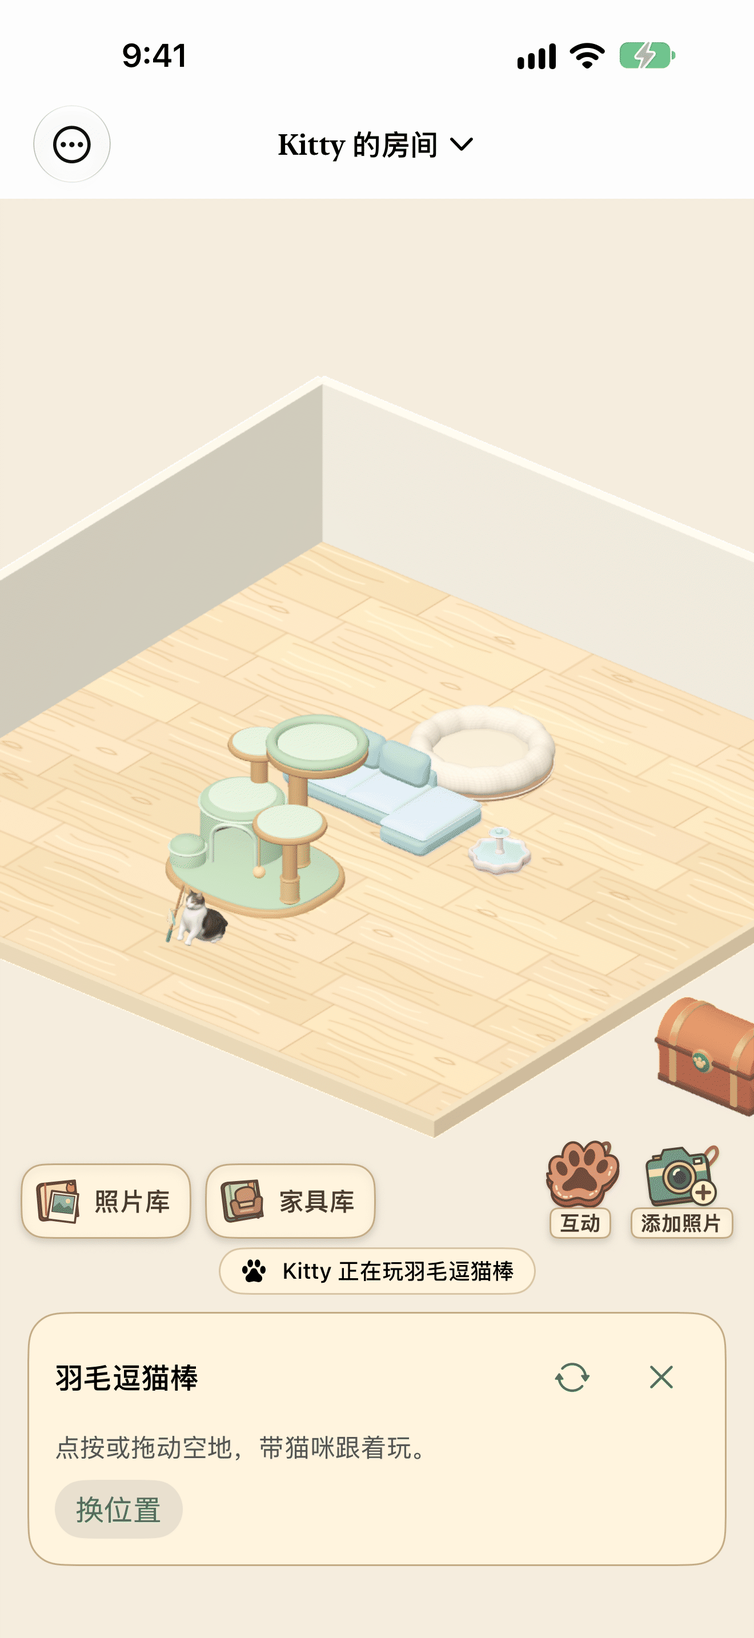
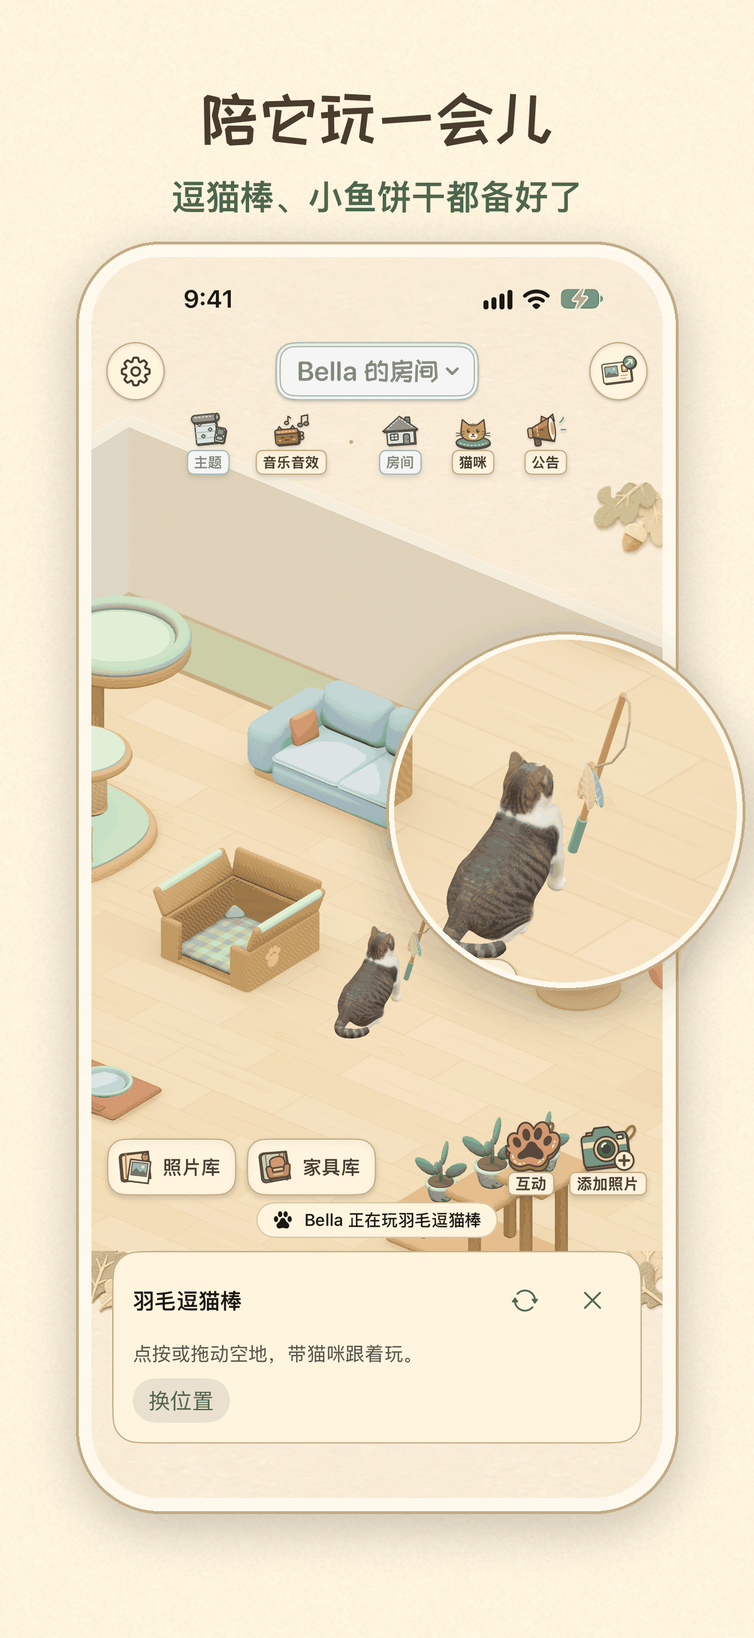
docs: README for 1.0 in review, nine cats, sponsors and studio
The badge and status line say 1.0 (14) is in App Store review. Nine
built-in cats; the sponsors by their own nicknames and the studio
credit, as in the app. The preview images are three of the 1.0 App
Store screenshots, the ones with no photos in them.

diff --git a/docs/media/ATTRIBUTION.md b/docs/media/ATTRIBUTION.md
@@ -2,54 +2,51 @@
 
 简体中文 | [English](#english)
 
-这里的中英两组、共六张图是完整 Meowverse 原生 iOS App 的开发版截图，供展示项目用途。这些图不作为源码候选包的运行截图；源码公开范围与正式 App 的素材范围分别说明。
+这里的中英两组、共六张图是喵空间 1.0 的 App Store 截图，供展示项目用途。它们展示的是带正式美术的成品 App，不是只靠本仓库的源码就能得到的画面。
 
-## 拍摄时间与版本
+## 拍摄与处理
 
-本组中文、英文商店底稿由项目的 `StoreScreenshotsUITests` 和 `ios/store-shots.sh` 在 iPhone 18 Pro Max 模拟器（iOS 27.2）中生成，两种语言共用同一拍摄流程，取自 2026-11-15 的开发主线。对应结果包记录的时间是 **2026-11-15 21:55–22:04 UTC（美国东部时间当天下午）**。
+截图由项目的商店截图流程在 iPhone 模拟器（iOS 27.2）上拍摄，界面是 1.0 的真实界面，英文截图是真实的英文界面。之后加上了标题、副标题和设备外框，与 App Store 上的截图相同（2026-11-24）。
 
-这些图晚于 **0.1.0 (3)** 的 2026-11-14 归档，图中部分界面可能还没有进入 TestFlight，不标为任何已上传构建的截图。PNG 本身不提供可独立验证的 App 构建号。
-
-六张文件尺寸均为 **1320 × 2868**，与模拟器截图相同。为减小仓库体积，原始 PNG 经 256 色调色板量化（Floyd–Steinberg 抖动）后重新保存，没有裁切、缩放、重绘界面或拼接额外功能。英文截图是真实的英文 UI，不是把中文截图的文字覆盖为英文。
+六张文件尺寸均为 **1320 × 2868**。为减小仓库体积，PNG 经 256 色调色板量化（Floyd–Steinberg 抖动）后重新保存，没有裁切、缩放或重绘界面。
 
 ## 照片与隐私
 
-- `ios-room.png`、`ios-play.png` 及其 `-en.png` 对应图只展示 App 渲染的虚拟场景、猫咪和道具。
-- `ios-memories.png`、`ios-memories-en.png` 内的来源图片是程序画出的猫咪与沙发示意图，来自 App 的合成测试导入流程。图上的拍摄日期和导入时间属于该合成测试图片，不代表任何真实猫咪照片的日期。
-- 图中猫咪的名字是 App 的默认名 Kitty。这些图没有包含私人原照片、真实相册内容、个人姓名或设备标识。
+这六张图只有 App 渲染的虚拟房间、猫咪、家具和道具，**不含任何照片**。商店截图里另有几张展示照片整理的图，用了真实的猫咪照片，没有放进本仓库。图中的猫是内置的 Bella，没有个人姓名或设备标识。
 
 ## 权利范围与第三方署名
 
-这六份 PNG 产品预览图作为展示材料保留权利，不随程序代码许可授予美术复用权。截图的公开展示不表示正式模型、贴图、动画或设计源文件一并开源。此说明不改变适用代码许可证授予的权利；第三方内容已有的许可和权利不受此声明影响。
+这六份 PNG 作为展示材料保留权利，不随程序代码许可授予美术复用权；公开展示不表示正式模型、贴图、动画或设计源文件一并开源。第三方内容已有的许可和权利不受此声明影响。
 
-- 图中的猫是 App 内置的猫咪，网格与毛色由 Meowverse 制作，骨架、蒙皮权重和动作片段来自 Meowverse 的猫咪骨架流程。App 的署名文件仍保留早期模板的来源署名，这里照录：**“3d modelling my cat: Fripouille” — guillaume bolis（2020）**，原作品适用 [CC BY 4.0](https://creativecommons.org/licenses/by/4.0/)。[原作页面](https://sketchfab.com/3d-models/3d-modelling-my-cat-fripouille-0ab14bf98e754f8d90fe1bf1c84ca66c) · [作者](https://sketchfab.com/guillaume.bolis)。
-- 图中可见的家具（层层猫爬架、云朵贵妃沙发、莲花饮水器、甜甜圈猫窝）是 Meowverse 的原创程序模型；收纳箱、羽毛逗猫棒、地板与墙面，以及合成来源图片，由 Meowverse 的程序在本机生成或绘制。这组截图中没有出现 App 目录里来自 Kenney 或 3D Assets 的 CC0 家具。
-
-本目录只包含展示用截图，没有包含上述正式几何体、纹理或动画源文件。
+- **猫。** 内置猫 Bella 由腾讯混元 3D（Tencent Hunyuan3D）从参考图生成，再由 Meowverse 修整，骨架、蒙皮权重和动作片段来自 Meowverse 的猫咪骨架流程。Tencent Hunyuan 3D 2.0 is licensed under the Tencent Hunyuan 3D 2.0 Community License Agreement, Copyright © 2025 Tencent. All Rights Reserved. The trademark rights of “Tencent Hunyuan” are owned by Tencent or its affiliate. App 的署名文件仍保留早期模板的来源署名，这里照录：**“3d modelling my cat: Fripouille” — guillaume bolis（2020）**，原作品适用 [CC BY 4.0](https://creativecommons.org/licenses/by/4.0/)。[原作页面](https://sketchfab.com/3d-models/3d-modelling-my-cat-fripouille-0ab14bf98e754f8d90fe1bf1c84ca66c) · [作者](https://sketchfab.com/guillaume.bolis)。
+- **家具、房间主题和道具。** 来自 App 的家具目录：Meowverse 的原创程序模型、owner 提供并用 Meowverse 家具工具建的模型，以及 Kenney 和 3D Assets 的 CC0 模型（CC0 不要求署名，完整清单见 App 内「关于与隐私」）。墙纸、地板、角饰和玩具道具由 Meowverse 制作。
 
 ## 文件校验
 
-来源路径均为原开发项目内的相对路径，用于说明拍摄出处。下表是本目录中压缩后文件的 SHA-256。
+下表是本目录中文件的 SHA-256。
 
-| 文件 | 来源 | SHA-256 |
+| 文件 | 商店截图 | SHA-256 |
 | --- | --- | --- |
[12 lines of base64/hex data omitted]
 
 <a name="english"></a>
 
 ## English
 
-These six images, one Chinese and one English set, are screenshots of a development build of the full native Meowverse iOS app, shown to present the project. They are not screens produced by running the source package.
+These six images, one Chinese and one English set, are the App Store screenshots of Meowverse 1.0, shown to present the project. They show the finished app with its production art, not what the source in this repository produces on its own.
 
-**When and how.** Both languages were captured by the project's `StoreScreenshotsUITests` and `ios/store-shots.sh` on an iPhone 18 Pro Max simulator (iOS 27.2) from the development main line of November 15, 2026. The result bundle records **21:55–22:04 UTC on 2026-11-15**. They are newer than the 0.1.0 (3) archive of November 14, 2026, so some of what they show may not be in TestFlight yet; they are not labelled as screenshots of any uploaded build.
+**How.** The project's store screenshot pipeline captured them in an iPhone simulator (iOS 27.2) from the real 1.0 interface; the English images show the real English interface. A title, a subtitle and a device frame were then added, as on the App Store (November 24, 2026). All six are **1320 × 2868**. To keep the repository small, the PNGs were quantised to a 256-colour palette with Floyd–Steinberg dithering and saved again, without cropping, scaling or redrawing the interface.
 
-**Processing.** All six files keep the simulator size of **1320 × 2868**. To keep the repository small, the original PNGs were quantised to a 256-colour palette with Floyd–Steinberg dithering and saved again. Nothing was cropped, scaled, redrawn or composited. The English screenshots show the real English UI, not Chinese screenshots with replaced text.
+**Photos and privacy.** These six images show only the app's rendered virtual room, cat, furniture and props, and **no photos at all**. The other store screenshots, which show photo organizing with real cat photos, are not in this repository. The cat is the built-in Bella; there are no personal names or device identifiers.
 
-**Photos and privacy.** The room and play images show only the app's rendered scene, cat and props. The source picture in the memories images is a programmatically drawn cat-and-sofa sample from the app's synthetic test import; its capture date and import time belong to that sample. The cat's name is the app default, Kitty. The images contain no private photos, real photo-library content, personal names or device identifiers.
+**Rights and attribution.** The screenshots are presentation material; their rights are reserved and are not granted under the code license, and showing them does not open-source the production models, textures, animations or design files. Existing licenses and rights of third-party content are unaffected.
 
-**Rights and attribution.** The screenshots are presentation material; their rights are reserved and are not granted under the code license, and showing them does not open-source the production models, textures, animations or design files. The cat is the app's built-in cat, with mesh and coat made by Meowverse and the skeleton, skin weights and clips from Meowverse's cat rig. The app's attribution file still keeps the credit for the earlier template, reproduced here: **“3d modelling my cat: Fripouille” by guillaume bolis (2020)**, licensed under [CC BY 4.0](https://creativecommons.org/licenses/by/4.0/) ([model](https://sketchfab.com/3d-models/3d-modelling-my-cat-fripouille-0ab14bf98e754f8d90fe1bf1c84ca66c) · [author](https://sketchfab.com/guillaume.bolis)). The visible furniture (Tiered cat tower, Cloud chaise sofa, Lotus fountain and Donut bed) is original procedural work by Meowverse; the storage chest, feather wand, floor, walls and the synthetic source picture are generated or drawn locally by Meowverse code. No Kenney or 3D Assets CC0 furniture from the app catalog appears in these screenshots. The SHA-256 of each file is in the table above.
+- **The cat.** The built-in cat Bella was generated with Tencent Hunyuan3D from reference images and reworked by Meowverse; the skeleton, skin weights and clips come from Meowverse's cat rig. Tencent Hunyuan 3D 2.0 is licensed under the Tencent Hunyuan 3D 2.0 Community License Agreement, Copyright © 2025 Tencent. All Rights Reserved. The trademark rights of “Tencent Hunyuan” are owned by Tencent or its affiliate. The app's attribution file still keeps the credit for the earlier template, reproduced here: **“3d modelling my cat: Fripouille” by guillaume bolis (2020)**, licensed under [CC BY 4.0](https://creativecommons.org/licenses/by/4.0/) ([model](https://sketchfab.com/3d-models/3d-modelling-my-cat-fripouille-0ab14bf98e754f8d90fe1bf1c84ca66c) · [author](https://sketchfab.com/guillaume.bolis)).
+- **Furniture, room themes and props.** From the app's furniture catalog: original procedural models by Meowverse, models provided by the owner and built with the Meowverse furniture toolkit, and CC0 models from Kenney and 3D Assets (CC0 requires no attribution; the full list is under About & Privacy in the app). Wallpapers, floors, corner ornaments and toys are made by Meowverse.
+
+The SHA-256 of each file is in the table above.

diff --git a/README.md b/README.md
@@ -11,7 +11,7 @@
 <p>
   <img src="https://img.shields.io/badge/Swift-6-F05138?logo=swift&amp;logoColor=white" alt="Swift 6">
   <img src="https://img.shields.io/badge/iOS%20%2F%20iPadOS-26%2B-1C1C1E?logo=apple&amp;logoColor=white" alt="iOS 和 iPadOS 26 或更新版本">
-  <img src="https://img.shields.io/badge/1.0-%E5%8D%B3%E5%B0%86%E4%B8%8A%E6%9E%B6%20App%20Store-0A84FF" alt="1.0 即将上架 App Store">
+  <img src="https://img.shields.io/badge/1.0-App%20Store%20%E5%AE%A1%E6%A0%B8%E4%B8%AD-0A84FF" alt="1.0 App Store 审核中">
   <a href="https://github.com/Fengyee/meowverse-core"><img src="https://img.shields.io/badge/Source-available-586A54" alt="Source-available 源码可见"></a>
   <a href="https://github.com/Fengyee/meowverse-core/blob/main/LICENSE"><img src="https://img.shields.io/badge/License-PolyForm%20NC%201.0.0-697A89" alt="PolyForm Noncommercial License 1.0.0"></a>
 </p>
@@ -26,7 +26,7 @@
 
 </div>
 
-2026-11-24：喵空间 **1.0（9）** 即将上架 App Store。上架前可以通过 TestFlight 试用，能否加入以 TestFlight 页面显示为准。网页版保留为功能演示，开发主线是原生 iOS App。
+2026-11-24：喵空间 **1.0（14）** 已提交 App Store 审核，审核通过后上架。上架前可以通过 TestFlight 试用，能否加入以 TestFlight 页面显示为准。网页版保留为功能演示，开发主线是原生 iOS App。
 
 <a name="try"></a>
 
@@ -38,7 +38,7 @@
 
 从一张你有权使用的猫咪照片开始，检查家具建议，选好款式和位置；以后点家具，就能打开与它关联的照片。识别在本机运行，从预设家具里提出建议，最终由你确认；不提供照片的 3D 重建。
 
-> **源码范围是喵空间 1.0 的全部代码，美术不公开。** 本仓库提供准备上架 App Store 的 1.0 的 App、小组件与实时活动、核心库 `MeowverseCore`、测试和 Xcode 工程，可以在没有美术的情况下编译和测试。猫咪、家具、图标等正式美术不随源码提供。源码采用非商业用途的 **source-available** 许可，具体范围见 [源码与许可](#source)。
+> **源码范围是喵空间 1.0 的全部代码，美术不公开。** 本仓库提供提交 App Store 审核的 1.0（14）的 App、小组件与实时活动、核心库 `MeowverseCore`、测试和 Xcode 工程，可以在没有美术的情况下编译和测试。猫咪、家具、图标等正式美术不随源码提供。源码采用非商业用途的 **source-available** 许可，具体范围见 [源码与许可](#source)。
 
 <a name="your-cat"></a>
 
@@ -63,18 +63,18 @@
 
 <table>
   <tr>
-    <th align="center">把日常摆进房间</th>
-    <th align="center">点家具，回到照片</th>
-    <th align="center">陪猫玩一会儿</th>
+    <th align="center">给猫的照片，安一个家</th>
+    <th align="center">陪它玩一会儿</th>
+    <th align="center">给小屋换个样子</th>
   </tr>
   <tr>
-    <td align="center"><img src="docs/media/ios-room.png" width="250" alt="Meowverse 开发版房间界面：猫咪窝在沙发上，旁边有猫爬架、猫窝和饮水器"></td>
-    <td align="center"><img src="docs/media/ios-memories.png" width="250" alt="Meowverse 开发版家具回忆界面：沙发里的一张程序绘制示意照片和拍摄日期"></td>
-    <td align="center"><img src="docs/media/ios-play.png" width="250" alt="Meowverse 开发版陪猫玩界面：猫咪追着羽毛逗猫棒"></td>
+    <td align="center"><img src="docs/media/ios-room.png" width="250" alt="喵空间 1.0 房间：Bella 睡在云朵贵妃沙发上，旁边有猫爬架和纸箱"></td>
+    <td align="center"><img src="docs/media/ios-play.png" width="250" alt="喵空间 1.0 陪猫玩：Bella 追着羽毛逗猫棒"></td>
+    <td align="center"><img src="docs/media/ios-themes.png" width="250" alt="喵空间 1.0 换了房间主题的小屋：Bella 坐在猫爬架顶上，旁边有壁炉"></td>
   </tr>
 </table>
 
-*开发版真实界面（模拟器）；照片为程序绘制示意。截图采自 2026-11-15 的开发版，早于 1.0，部分画面和正式版不同。[图片来源与署名](docs/media/ATTRIBUTION.md)。*
+*1.0 的 App Store 截图（模拟器拍摄，加了标题和设备框）。这三张只有 App 里的虚拟房间，不含照片。[图片来源与署名](docs/media/ATTRIBUTION.md)。*
 
 <details>
 <summary>1.0 里有什么</summary>
@@ -85,7 +85,7 @@
 - **陪猫互动。** 邀请猫咪到家具上，选玩具或喂零食；支持实时活动的设备可从“互动”启动锁屏像素猫，支持灵动岛的 iPhone 还能在灵动岛查看。
 - **在别处看到它。** 主屏和锁屏小组件、控制中心控件；支持的设备上可以用 AR 把房间放在真实的桌面上。
 - **留住和同步。** 导出 ZIP 备份，或打开 iCloud 云盘备份和 iCloud 同步，在自己的设备之间同步房间和照片。
-- **按自己的习惯使用。** 八只内置猫咪任选；画质分档；iPad 支持横竖屏；界面跟随系统使用简体中文或英文；本地提醒由你选择开启。
+- **按自己的习惯使用。** 九只内置猫咪任选；画质分档；iPad 支持横竖屏；界面跟随系统使用简体中文或英文；本地提醒由你选择开启。
 
 多个房间、多只猫和语音控制还没做完，1.0 先不开放；已有存档里的第二个房间或第二只猫照常显示。
 
@@ -111,7 +111,7 @@
 
 **美术不公开**：猫咪与家具的模型、贴图、房间主题、插画、App 图标、音效、字体和设计源文件都不在本仓库。它们是项目与合作者的作品，部分按第三方许可使用，不随代码授权。宣传截图展示的是成品 App，不是只靠本仓库能得到的画面。
 
-关于页和猫咪卡片中的赞助人名字目前是占位写法，等真实信息确认后再更新，不是正式的鸣谢名单。
+关于页、公告和猫咪卡片里鸣谢的赞助人，用的是他们自己给的昵称：Omucat、阳子、锤宝、Xin、科内利乌斯；其余几只猫写作「〈猫名〉的铲屎官」。
 
 源码与列明的必要程序数据采用 **[PolyForm Noncommercial License 1.0.0](LICENSE)**：可以在许可证定义的许可用途内使用、修改和再分发；商业用途需要另行取得授权。再分发时须按原文保留许可条款和必要声明。
 
@@ -177,9 +177,13 @@ support/                        群二维码
 
 ## Contributors · 协作致谢
 
+出品：**枫雪工作室**。
+
 项目维护：[**Fengyee**](https://github.com/Fengyee)。
 
 创意：**Omucat**。
+
+赞助人：**Omucat**、**阳子**、**锤宝**、**Xin**、**科内利乌斯**。
 
 测试鸣谢：名单整理中。感谢每一位参与 TestFlight 测试和反馈的朋友。
 

diff --git a/README.en.md b/README.en.md
@@ -11,7 +11,7 @@ Build your cat a home, and turn the sofa it naps on or the sunny windowsill into
 <p>
   <img src="https://img.shields.io/badge/Swift-6-F05138?logo=swift&amp;logoColor=white" alt="Swift 6">
   <img src="https://img.shields.io/badge/iOS%20%2F%20iPadOS-26%2B-1C1C1E?logo=apple&amp;logoColor=white" alt="iOS and iPadOS 26 or later">
-  <img src="https://img.shields.io/badge/1.0-Coming%20to%20the%20App%20Store-0A84FF" alt="1.0 coming to the App Store">
+  <img src="https://img.shields.io/badge/1.0-In%20App%20Store%20review-0A84FF" alt="1.0 in App Store review">
   <a href="https://github.com/Fengyee/meowverse-core"><img src="https://img.shields.io/badge/Source-available-586A54" alt="Source-available code"></a>
   <a href="https://github.com/Fengyee/meowverse-core/blob/main/LICENSE"><img src="https://img.shields.io/badge/License-PolyForm%20NC%201.0.0-697A89" alt="PolyForm Noncommercial License 1.0.0"></a>
 </p>
@@ -26,7 +26,7 @@ Build your cat a home, and turn the sofa it naps on or the sunny windowsill into
 
 </div>
 
-As of November 24, 2026, Meowverse **1.0 (9)** is on its way to the App Store. Until then you can try it through TestFlight; check the TestFlight page for availability. The web version remains a frozen feature demo, while development focuses on the native iOS app.
+On November 24, 2026, Meowverse **1.0 (14)** was submitted for App Store review; it comes to the App Store once approved. Until then you can try it through TestFlight; check the TestFlight page for availability. The web version remains a frozen feature demo, while development focuses on the native iOS app.
 
 <a name="try"></a>
 
@@ -67,18 +67,18 @@ Participation is optional. Preparation is manual, with no guaranteed acceptance,
 
 <table>
   <tr>
-    <th align="center">Arrange everyday memories</th>
-    <th align="center">Tap furniture to revisit a photo</th>
-    <th align="center">Spend a moment with your cat</th>
+    <th align="center">A little home for your cat photos</th>
+    <th align="center">Stay and play a while</th>
+    <th align="center">Give the room a new look</th>
   </tr>
   <tr>
-    <td align="center"><img src="docs/media/ios-room-en.png" width="250" alt="Meowverse development build, room screen: the cat loafing on a sofa beside a cat tower, a bed and a fountain"></td>
-    <td align="center"><img src="docs/media/ios-memories-en.png" width="250" alt="Meowverse development build, furniture memories screen: a programmatically drawn sample photo of the sofa with its capture date"></td>
-    <td align="center"><img src="docs/media/ios-play-en.png" width="250" alt="Meowverse development build, play screen: the cat chasing the feather wand"></td>
+    <td align="center"><img src="docs/media/ios-room-en.png" width="250" alt="Meowverse 1.0, the room: Bella asleep on the cloud chaise sofa beside a cat tower and a cardboard box"></td>
+    <td align="center"><img src="docs/media/ios-play-en.png" width="250" alt="Meowverse 1.0, playing: Bella chasing the feather wand"></td>
+    <td align="center"><img src="docs/media/ios-themes-en.png" width="250" alt="Meowverse 1.0, a room in another theme: Bella on top of the cat tower, a fireplace beside her"></td>
   </tr>
 </table>
 
-*Real interfaces from a development build running in the simulator; the photos are programmatically drawn examples. These screenshots were captured from a development build on November 15, 2026, before 1.0, so some screens differ from the released app. [Image sources and attribution](docs/media/ATTRIBUTION.md).*
+*App Store screenshots of 1.0 (taken in the simulator, with a title and device frame added). These three show only the app’s virtual room and no photos. [Image sources and attribution](docs/media/ATTRIBUTION.md).*
 
 <details>
 <summary>What is in 1.0</summary>
@@ -89,7 +89,7 @@ Participation is optional. Preparation is manual, with no guaranteed acceptance,
 - **Play with the cat.** Invite the cat onto furniture, pick a toy or offer a treat. On devices with Live Activities, start a Lock Screen pixel cat from Play; iPhones with Dynamic Island can also show it there.
 - **See it elsewhere.** Home Screen and Lock Screen widgets and a Control Center control; on supported devices, AR puts the room on a real table.
 - **Keep and sync it.** Export a ZIP backup, or turn on iCloud Drive backup and iCloud Sync to sync your room and photos between your own devices.
-- **Use it your way.** Pick any of eight built-in cats and a quality tier. Use iPad in portrait or landscape. The interface follows your system's Simplified Chinese or English language setting, and local reminders are optional.
+- **Use it your way.** Pick any of nine built-in cats and a quality tier. Use iPad in portrait or landscape. The interface follows your system's Simplified Chinese or English language setting, and local reminders are optional.
 
 Several rooms, several cats and voice control are not finished and stay off in 1.0; a second room or cat already in a saved library still shows as usual.
 
@@ -115,7 +115,7 @@ This repository publishes all the code of Meowverse 1.0, the version being prepa
 
 **The art is not published**: cat and furniture models, textures, room themes, illustrations, app icons, sounds, fonts and design source files are not in this repository. They are the work of the project and its collaborators, some used under third-party licenses, and they are not licensed with the code. The screenshots show the finished app, not what this repository alone produces.
 
-The sponsor names on the About page and the cat cards are placeholders until the real details are confirmed; they are not the final list of credits.
+The sponsors thanked on the About page, in News and on the cat cards appear under the nicknames they gave: Omucat, Yoko, Chuibao, Xin and Cornelius; the other cats read “〈cat〉’s human”.
 
 The code and the identified required program data use the **[PolyForm Noncommercial License 1.0.0](LICENSE)**. You may use, modify and redistribute them for purposes permitted by that license; commercial use requires separate authorization. Redistribution must retain the terms and required notices as specified in the license.
 
@@ -183,7 +183,11 @@ The sync merge rules and the cloud backup state and retention rules are in `Meow
 
 Project maintainer: [**Fengyee**](https://github.com/Fengyee).
 
+Made by **Fengxue Studio**.
+
 Creative: **Omucat**.
+
+Sponsors: **Omucat**, **Yoko**, **Chuibao**, **Xin**, **Cornelius**.
 
 Beta testers: list coming soon. Thank you to everyone who tests the TestFlight builds and sends feedback.
 

diff --git a/CONTRIBUTORS.md b/CONTRIBUTORS.md
@@ -4,6 +4,12 @@
 
 Each section is in Chinese first, then English.
 
+## 出品 · Made by
+
+**枫雪工作室**出品。
+
+Made by **Fengxue Studio**.
+
 ## 项目维护 · Maintainer
 
 [Fengyee](https://github.com/Fengyee) 维护 Meowverse，负责产品决策和发布。
@@ -15,6 +21,12 @@ Each section is in Chinese first, then English.
 **Omucat**：创意。
 
 **Omucat**: creative ideas.
+
+## 赞助人 · Sponsors
+
+**Omucat**、**阳子**、**锤宝**、**Xin**、**科内利乌斯**：喵空间 1.0 内置猫咪的赞助人，用的是他们自己给的昵称。App 的关于页、公告和猫咪卡片里也有这份名单。
+
+**Omucat**, **Yoko**, **Chuibao**, **Xin** and **Cornelius** sponsor built-in cats in Meowverse 1.0, under the nicknames they gave. The same list is on the app's About page, in News and on the cat cards.
 
 ## 测试鸣谢 · Beta testers
 
